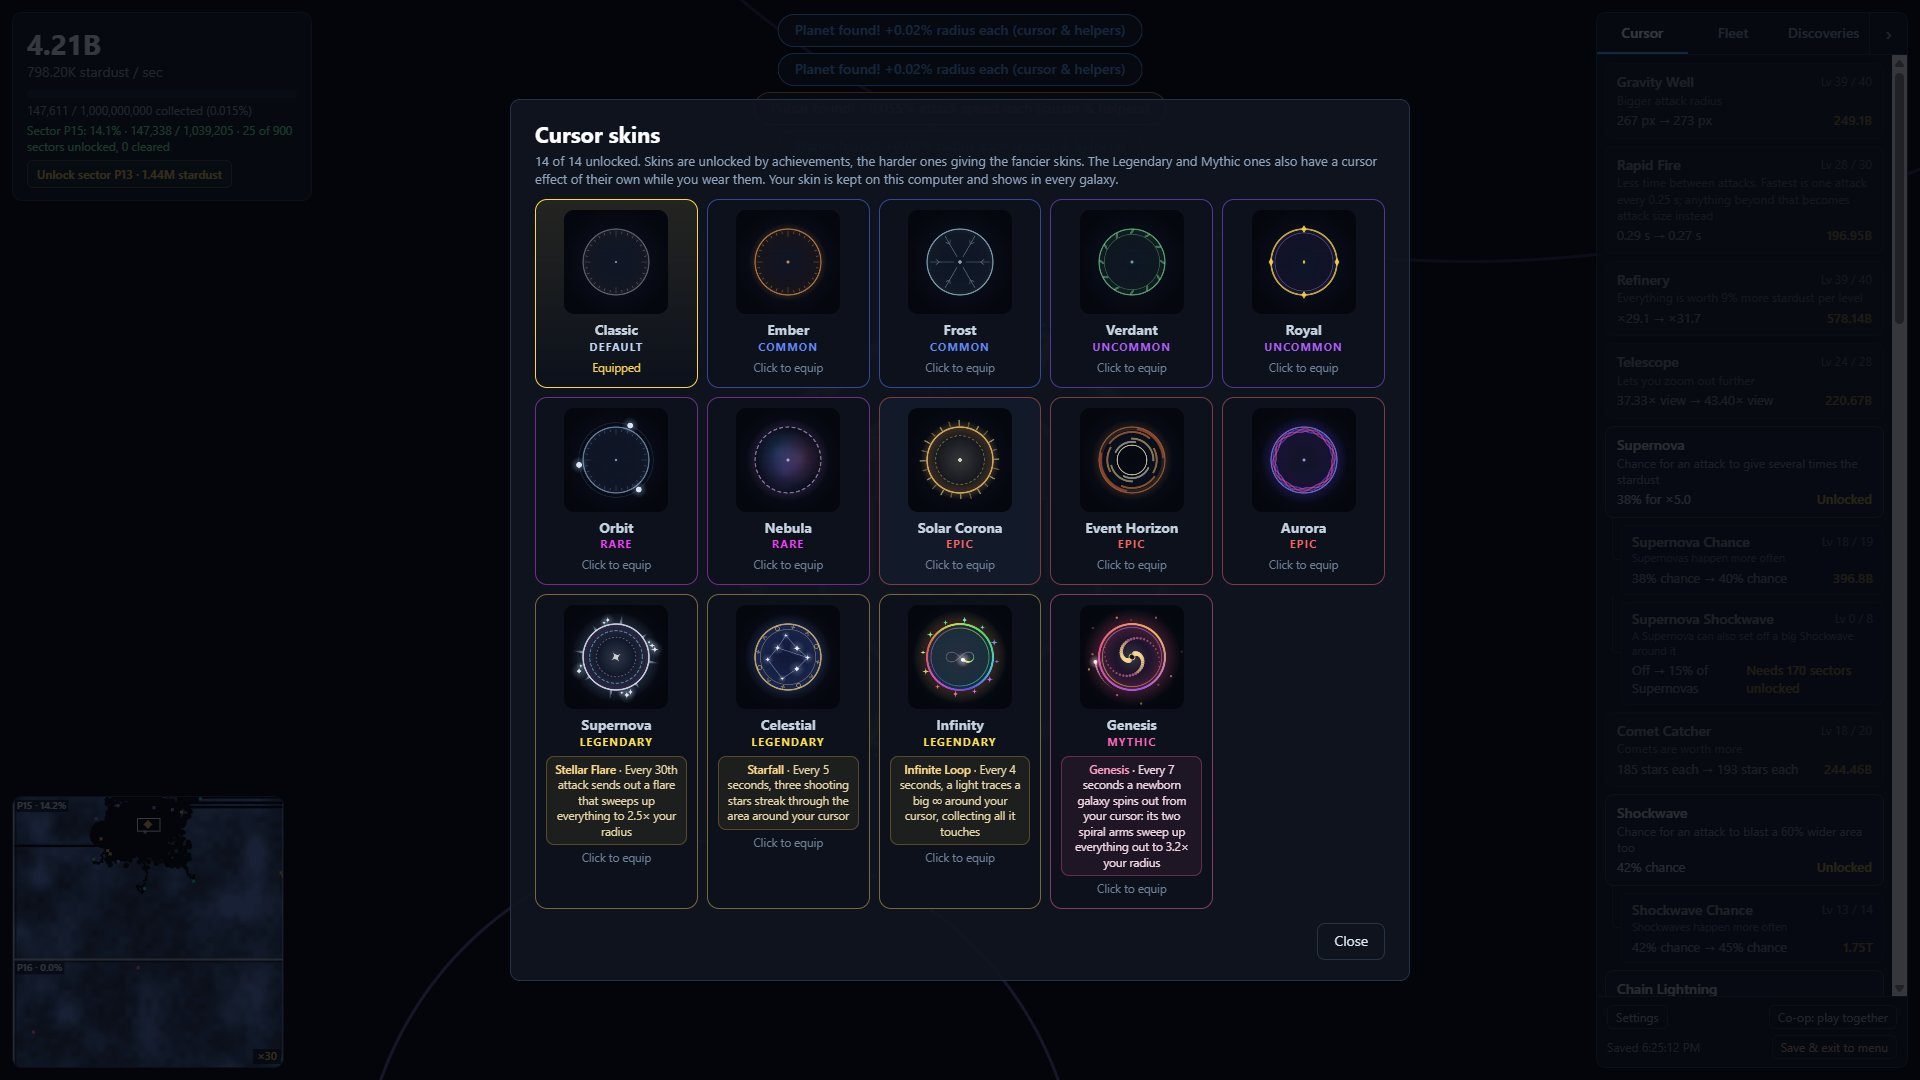
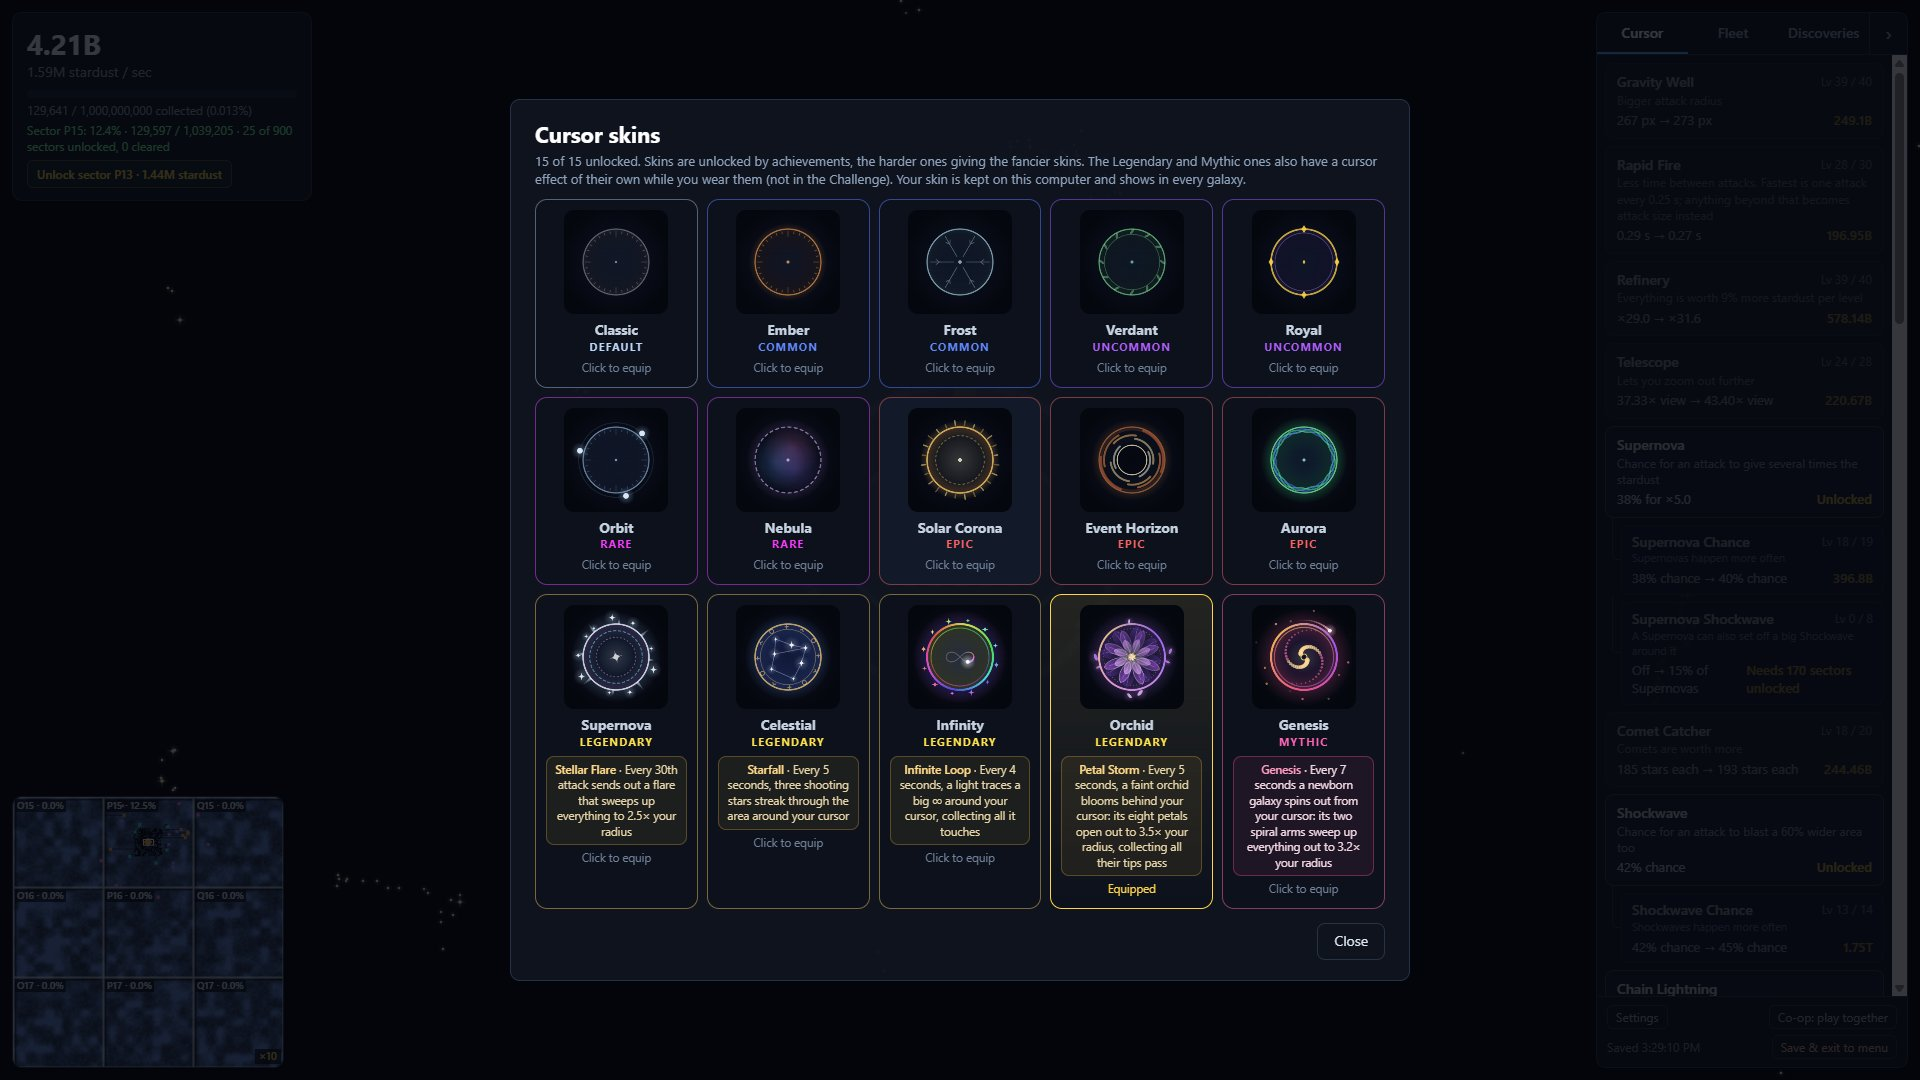
Add files via upload

diff --git a/play.html b/play.html
@@ -3648,6 +3648,7 @@ function sfx(name, n) {
   else if (name === 'win') [261.63, 329.63, 392, 523.25, 659.25, 783.99, 1046.5].forEach((f, k) => tone(f, t + 0.6 + k * 0.17, 3.2, 0.06));
   else if (name === 'zap') { tone(1760, t, 0.08, 0.035, 'sawtooth'); tone(880, t + 0.02, 0.12, 0.03, 'triangle'); }
   else if (name === 'shock') { tone(130.81, t, 0.45, 0.09); tone(196, t + 0.03, 0.35, 0.05, 'triangle'); }
+  else if (name === 'petals') [587.33, 739.99, 880, 1174.7].forEach((f, k) => tone(f, t + k * 0.05, 0.6, 0.03, k % 2 ? 'triangle' : 'sine'));   // Petal Storm: a soft, airy flutter upward
   else if (name === 'tick') tone(1900 + Math.random() * 120, t, 0.035, 0.03, 'triangle');   // a card passing the line on the cache reel
   else if (name === 'cacheOpen') { tone(196, t, 0.5, 0.06, 'triangle'); tone(392, t + 0.05, 0.4, 0.04); }
   else if (name === 'reveal') {   // the cache's reward: a rising chime, longer and fuller the rarer it is
@@ -4327,6 +4328,39 @@ const SKINS = [
     }
     duo(R, 2.4, t * 0.4, 0.9);
   } },
+  // (added after Genesis so the skins' numbers stay the same for co-op players on an older version; the window sorts by tier)
+  { id: 'orchid', name: 'Orchid', tier: 5, ach: 'gpSave', c: '200,120,240', draw(g, x, y, R, t, f) {
+    skGlow(g, x, y, R, R + 15, '190,110,255', 0.15 + 0.15 * f);
+    const core = g.createRadialGradient(x, y, 0, x, y, R);   // a soft pink-white heart fading to violet at the edge
+    core.addColorStop(0, rgba('255,225,250', 0.14 + 0.25 * f)); core.addColorStop(0.55, rgba(this.c, 0.05 + 0.15 * f)); core.addColorStop(1, rgba('150,80,240', 0.24 + 0.3 * f));
+    g.fillStyle = core; g.beginPath(); g.arc(x, y, R, 0, TAU); g.fill();
+    if (R > 14) {
+      const petal = (ang, b, L, W, col, a, edge) => {   // one petal from b out to b + L, a bright edge and a vein down the middle
+        g.save(); g.translate(x, y); g.rotate(ang);
+        const gr = g.createLinearGradient(0, -b, 0, -b - L); gr.addColorStop(0, rgba(col, a * 0.35)); gr.addColorStop(1, rgba(col, a));
+        g.fillStyle = gr; g.beginPath(); g.moveTo(0, -b);
+        g.bezierCurveTo(W, -b - L * 0.35, W * 0.7, -b - L * 0.9, 0, -b - L); g.bezierCurveTo(-W * 0.7, -b - L * 0.9, -W, -b - L * 0.35, 0, -b); g.fill();
+        if (edge > 0) { g.strokeStyle = rgba('250,225,255', edge); g.lineWidth = 0.9; g.stroke(); }
+        g.strokeStyle = rgba('245,220,255', 0.24); g.lineWidth = 0.8; g.beginPath(); g.moveTo(0, -b); g.lineTo(0, -b - L * 0.8); g.stroke();
+        g.restore();
+      };
+      const shine = a => 0.5 + 0.5 * Math.cos(a - t * 0.8);   // a soft sheen running round the flower
+      for (let k = 0; k < 8; k++) { const a = -t * 0.04 + k * TAU / 8 + TAU / 32; petal(a, R * 0.3, R * 0.62 * (1 + 0.04 * Math.sin(t * 0.7 + k)), R * 0.28, '120,60,210', 0.3, 0); }   // a wide, dark back layer
+      for (let k = 0; k < 8; k++) { const a = t * 0.06 + k * TAU / 8, s = shine(a); petal(a, R * 0.16, R * 0.72 * (1 + 0.05 * Math.sin(t * 0.9 + k * 1.9)), R * 0.22, '170,90,235', 0.4 + 0.18 * s, 0.12 + 0.3 * s); }
+      for (let k = 0; k < 8; k++) { const a = -t * 0.08 + k * TAU / 8 + TAU / 16, s = shine(a); petal(a, R * 0.1, R * 0.48 * (1 + 0.05 * Math.sin(t * 1.1 + k * 1.3)), R * 0.17, '235,180,255', 0.45 + 0.2 * s, 0.1 + 0.3 * s); }
+      skRing(g, x, y, R * 0.86, 'rgba(255,215,140,.3)', 1, [R * 0.03, R * 0.07], t * R * 0.15);   // a fine gold thread, turning
+      skGlow(g, x, y, 0, R * 0.2, '255,220,150', 0.35);   // the golden heart: pollen and a slowly turning glint
+      for (let k = 0; k < 7; k++) { const a = t * 0.2 + k * TAU / 7; skDot(g, x + Math.cos(a) * R * 0.08, y + Math.sin(a) * R * 0.08, 1.3, 'rgba(255,220,140,.85)'); }
+      g.save(); g.translate(x, y); g.rotate(t * 0.3); skStar4(g, 0, 0, Math.min(10, R * 0.15), 'rgba(255,245,225,.8)'); g.restore();
+      for (let k = 0; k < 7; k++) {   // loose petals drifting round outside, tumbling slowly as they go
+        const a = t * (0.32 + 0.03 * k) + k * TAU / 7, r = R * (1.12 + 0.06 * Math.sin(t * 0.6 + k * 2)), px = x + Math.cos(a) * r, py = y + Math.sin(a) * r, s = Math.min(6, R * 0.09) * (0.8 + 0.2 * (k % 3));
+        g.save(); g.translate(px, py); g.rotate(a + t * (0.8 + 0.1 * k)); skGlow(g, 0, 0, 0, s * 2.2, '210,150,255', 0.22);
+        g.fillStyle = rgba(k % 2 ? '235,190,255' : '200,130,250', 0.8); g.beginPath(); g.ellipse(0, 0, s, s * 0.45, 0, 0, TAU); g.fill(); g.restore();
+      }
+    }
+    const cg = g.createConicGradient(t * 0.35, x, y), C = ['215,150,255', '255,170,225', '255,215,140', '170,110,255', '215,150,255'];   // the rim: violet, rose and gold, turning
+    C.forEach((c, k) => cg.addColorStop(k / 4, rgba(c, 0.85))); g.strokeStyle = cg; g.lineWidth = 2.2; g.beginPath(); g.arc(x, y, R, 0, TAU); g.stroke();
+  } },
 ];
 const SKIN_BY = Object.fromEntries(SKINS.map(s => [s.id, s]));
 const skinOpen = s => s.cache ? mythicHave() : !s.ach || !!ach.got[s.ach];
@@ -4341,7 +4375,7 @@ function skinRender() {
   if (!$('skinBox').classList.contains('show')) return;
   const n = SKINS.filter(skinOpen).length, cur = curSkin();
   $('skinSum').textContent = n + ' of ' + SKINS.length + ' unlocked. Skins are unlocked by achievements, the harder ones giving the fancier skins. The Legendary and Mythic ones also have a cursor effect of their own while you wear them (not in the Challenge). Your skin is kept on this computer and shows in every galaxy.';
-  $('skinList').innerHTML = SKINS.map(s => {
+  $('skinList').innerHTML = [...SKINS].sort((a, b) => a.tier - b.tier).map(s => {
     const open = skinOpen(s), a = s.ach && ACH.find(q => q.id === s.ach), tr = SKIN_TIER[s.tier];
     let info;
     if (s.id === cur.id) info = 'Equipped';
@@ -4379,6 +4413,7 @@ const SKIN_FX = {
   supernova: { name: 'Stellar Flare', desc: 'Every 30th attack sends out a flare that sweeps up everything to 2.5× your radius' },
   celestial: { name: 'Starfall', desc: 'Every 5 seconds, three shooting stars streak through the area around your cursor' },
   infinity: { name: 'Infinite Loop', desc: 'Every 4 seconds, a light traces a big ∞ around your cursor, collecting all it touches' },
+  orchid: { name: 'Petal Storm', desc: 'Every 5 seconds, a faint orchid blooms behind your cursor: its eight petals open out to 3.5× your radius, collecting all their tips pass' },
   genesis: { name: 'Genesis', desc: 'Every 7 seconds a newborn galaxy spins out from your cursor: its two spiral arms sweep up everything out to 3.2× your radius' },
 };
 // (about +20%, +25% and +30% stardust at full attack speed, a little more relative to a slower cursor)
@@ -4428,7 +4463,57 @@ function skinFxStep(dt) {
     if (!l.vis) for (let h = 1; h <= hops; h++) { const [px, py] = lemXY(l, l.s + (ns - l.s) * h / hops); collectAt(px, py, l.r, -1); }
     l.s = ns;
   }
+  if (id === 'orchid' && on && (petalT -= dt) <= 0) { petalT = PETAL_EVERY; const p = { x: ax, y: ay, r0: curRadius, R: curRadius * PETAL_X, w: curRadius * PETAL_W, a0: Math.random() * TAU, t: 0 };
+    petals.push(p); sfx('petals'); fxShare(['p', ax | 0, ay | 0, p.r0 | 0, p.R | 0, Math.round(p.w), Math.round(p.a0 * 1000) / 1000]); }
+  for (let j = petals.length - 1; j >= 0; j--) {   // Petal Storm: the petal tips open outward in small hops, so they skip nothing
+    const p = petals[j];
+    if (p.t >= 1) { if ((p.t += dt / PETAL_FADE) >= 2) petals.splice(j, 1); continue; }   // (then it fades away)
+    const nt = Math.min(1, p.t + dt / PETAL_T);
+    if (!p.vis) { const hops = Math.max(1, Math.ceil((p.R - p.r0) * 1.8 * (nt - p.t) * 2 / (p.w * 0.7)));
+      for (let h = 1; h <= hops; h++) for (let k = 0; k < PETAL_N; k++) { const [px, py] = petalXY(p, k, p.t + (nt - p.t) * h / hops); collectAt(px, py, p.w, -1); } }
+    p.t = nt;
+  }
   gainTag = MT_CURSOR;
+}
+// Petal Storm (Orchid): about the same as Infinite Loop. A big, faint orchid opens behind the stars (drawn before them, at
+// low opacity, fading in and out slowly: nothing flashes); its eight petal tips collect what they pass as they open.
+const PETAL_EVERY = 5, PETAL_N = 8, PETAL_X = 3.5, PETAL_W = 0.42, PETAL_T = 1.3, PETAL_FADE = 1, PETAL_A = 0.16, PETAL_SWIRL = 0.35;
+let petalT = 2;
+const petals = [];
+const petalXY = (p, k, u) => { const e = 1 - (1 - u) ** 2, d = p.r0 + (p.R - p.r0) * e, a = p.a0 + k * TAU / PETAL_N + PETAL_SWIRL * e; return [p.x + Math.cos(a) * d, p.y + Math.sin(a) * d]; };   // petal k's tip at u (0 to 1) of the opening
+function drawPetals(hw, hh) {   // the bloom: eight long petals from the cursor's spot to their tips, eight short ones between
+  if (!petals.length) return;
+  ctx.save();
+  const petal = (L, W, col, a) => {   // one petal pointing up (the caller turns it), widest a little past the middle
+    const gr = ctx.createLinearGradient(0, 0, 0, -L); gr.addColorStop(0, rgba(col, a * 0.25)); gr.addColorStop(0.6, rgba(col, a)); gr.addColorStop(1, rgba(col, a * 0.6));
+    ctx.fillStyle = gr; ctx.beginPath(); ctx.moveTo(0, 0);
+    ctx.bezierCurveTo(W * 1.3, -L * 0.3, W * 0.9, -L * 0.85, 0, -L); ctx.bezierCurveTo(-W * 0.9, -L * 0.85, -W * 1.3, -L * 0.3, 0, 0); ctx.fill();
+    ctx.strokeStyle = rgba('235,200,255', a * 0.7); ctx.lineWidth = 1; ctx.stroke();
+  };
+  for (const p of petals) {
+    const u = Math.min(1, p.t), a = PETAL_A * fxA() * (p.t < 1 ? Math.min(1, u / 0.3) : Math.max(0, 2 - p.t));   // in softly as it opens, then a slow fade
+    if (a <= 0.002) continue;
+    const cx = (p.x - camX) * zoom + hw, cy = (p.y - camY) * zoom + hh, W = Math.max(2, p.w * zoom), n = 16;
+    for (let k = 0; k < PETAL_N; k++) {
+      const [tx, ty] = petalXY(p, k, u), sx = (tx - camX) * zoom + hw, sy = (ty - camY) * zoom + hh, L = Math.hypot(sx - cx, sy - cy), ang = Math.atan2(sy - cy, sx - cx) + Math.PI / 2;
+      ctx.save(); ctx.translate(cx, cy); ctx.rotate(ang + Math.PI / PETAL_N); petal(L * 0.5, W * 0.75, '235,180,255', a * 0.8); ctx.restore();   // the short petal between this one and the next
+      const P = [[cx, cy]];   // the long petal follows the path its tip took, so it covers just what it collected
+      for (let i = 1; i <= n; i++) { const [px, py] = petalXY(p, k, u * i / n); P.push([(px - camX) * zoom + hw, (py - camY) * zoom + hh]); }
+      const left = [], right = [];
+      for (let i = 0; i <= n; i++) {
+        const [ax, ay] = P[Math.max(0, i - 1)], [bx, by] = P[Math.min(n, i + 1)], l = Math.hypot(bx - ax, by - ay) || 1, h = W * Math.sin(Math.PI * (i / n) ** 1.3);   // widest a little past the middle
+        left.push([P[i][0] - (by - ay) / l * h, P[i][1] + (bx - ax) / l * h]); right.push([P[i][0] + (by - ay) / l * h, P[i][1] - (bx - ax) / l * h]);
+      }
+      const gr = ctx.createLinearGradient(cx, cy, sx, sy); gr.addColorStop(0, rgba('175,100,240', a * 0.25)); gr.addColorStop(0.6, rgba('175,100,240', a)); gr.addColorStop(1, rgba('175,100,240', a * 0.6));
+      ctx.fillStyle = gr; ctx.beginPath(); ctx.moveTo(cx, cy);
+      for (const [x, y] of left) ctx.lineTo(x, y);
+      for (let i = right.length - 1; i >= 0; i--) ctx.lineTo(right[i][0], right[i][1]);
+      ctx.closePath(); ctx.fill(); ctx.strokeStyle = rgba('235,200,255', a * 0.7); ctx.lineWidth = 1; ctx.stroke();
+    }
+    const g = ctx.createRadialGradient(cx, cy, 0, cx, cy, W * 3); g.addColorStop(0, rgba('255,225,170', a * 1.2)); g.addColorStop(1, rgba('255,200,150', 0));   // a faint golden heart
+    ctx.fillStyle = g; ctx.beginPath(); ctx.arc(cx, cy, W * 3, 0, TAU); ctx.fill();
+  }
+  ctx.restore();
 }
 // Genesis (Mythic): about +37%, a step above Infinity
 const BLOOM_EVERY = 7, BLOOM_X = 3.2, BLOOM_W = 0.42, BLOOM_T = 1.6;
@@ -5853,6 +5938,7 @@ function render(time) {
   // edge of the galaxy
   ctx.strokeStyle = '#3a4a66'; ctx.lineWidth = 2;
   ctx.strokeRect((0 - camX) * zoom + hw, (0 - camY) * zoom + hh, WORLD * zoom, WORLD * zoom);
+  drawPetals(hw, hh);   // Orchid's Petal Storm blooms behind the stars
 
   // objects
   const cx0 = Math.max(0, Math.floor(x0 / CELL)), cx1 = Math.min(GW - 1, Math.floor(x1 / CELL));
@@ -6320,7 +6406,7 @@ const bangs = [];   // Big Bangs still spreading out
 // with the next update (ten a second); the host passes guests' effects on to the other guests.
 //   n Supernova [x,y]   k Shockwave [x,y,r0,r1]   l Chain Lightning [x,y,splash, x1,y1, x2,y2...]   s Plasma Shot / Starfall star
 //   [x,y,angle,reach,r,speed,style]   u Stardust Rush [x,y,r]   v Singularity [x,y,r,life,spin]   m Meteor [x,y,r,order]
-//   b Big Bang [x,y,r0,R]   f Stellar Flare [x,y,r]   o Infinite Loop [x,y,A,r]   g Genesis [x,y,R,w,angle]
+//   b Big Bang [x,y,r0,R]   f Stellar Flare [x,y,r]   o Infinite Loop [x,y,A,r]   g Genesis [x,y,R,w,angle]   p Petal Storm [x,y,r0,R,w,angle]
 const fxOut = [];
 function fxShare(ev) {
   if (!net.role || fxOut.length >= 48) return;
@@ -6362,6 +6448,7 @@ function fxPlay(ev) {   // another player's effect: the same visual, collecting 
   else if (k === 'f') { const r = R(ev[3]); ringFx(x, y, r * zoom, r * FLARE_X * zoom, '200,225,255', FLARE_T); ringFx(x, y, r * zoom * 0.8, r * FLARE_X * 0.8 * zoom, '230,180,255', FLARE_T * 1.2); }
   else if (k === 'o') { if (loops.length < 8) loops.push({ x, y, A: R(ev[3]), r: R(ev[4]), s: 0, fade: 0, vis: true }); }
   else if (k === 'g') { if (blooms.length < 8) blooms.push({ x, y, R: R(ev[3]), w: R(ev[4]), a0: fxNum(ev[5], 7), t: 0, vis: true }); }
+  else if (k === 'p') { if (petals.length < 8) { const r0 = R(ev[3]); petals.push({ x, y, r0, R: Math.max(r0, R(ev[4])), w: R(ev[5]), a0: fxNum(ev[6], 7), t: 0, vis: true }); } }
 }
 
 // ---------------------------------------------------------------- stardust meter

diff --git a/index.html b/index.html
@@ -144,7 +144,7 @@
       <div class="feature">
         <a class="shot" href="shot-skins.jpg"><img src="shot-skins.jpg" alt="The cursor skins window" loading="lazy" width="1920" height="1080"></a>
         <div><p class="kicker">Show it off</p><h3>Achievements and cursor skins</h3>
-          <p>52 achievements unlock 14 cursor skins, from simple recolours to Legendary skins with cursor effects of their own.</p>
+          <p>52 achievements unlock 15 cursor skins, from simple recolours to Legendary skins with cursor effects of their own.</p>
           <p>And one Mythic skin that only turns up in Stellar Caches, at very long odds.</p></div>
       </div>
     </div>
